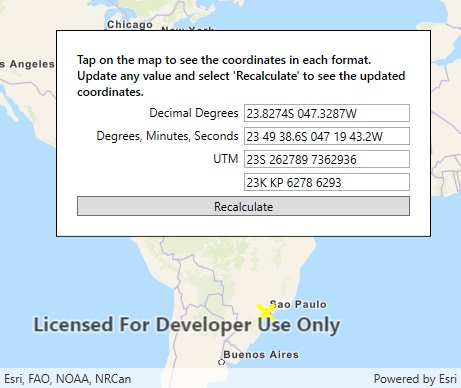
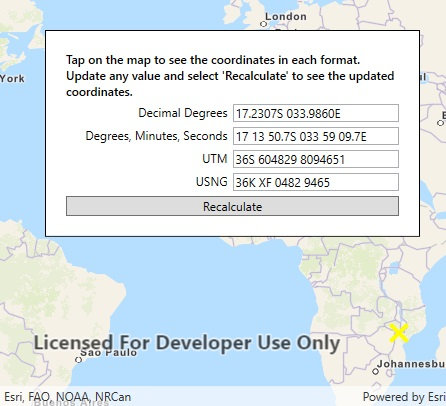
Format coordinates - re-add missing label
During the recent WPF improvement effort, the Format coordinates UI was redone. I accidentally removed some label text, which this commit/PR restores.

diff --git a/src/WPF/ArcGISRuntime.WPF.Viewer/Samples/Geometry/FormatCoordinates/FormatCoordinates.xaml b/src/WPF/ArcGISRuntime.WPF.Viewer/Samples/Geometry/FormatCoordinates/FormatCoordinates.xaml
@@ -51,7 +51,8 @@
                 <TextBox x:Name="UtmTextField"
                          Grid.Row="3" Grid.Column="1"
                          Tag="UTM" />
-                <TextBlock Grid.Row="4" Grid.Column="0"
+                <TextBlock Text="USNG"
+                           Grid.Row="4" Grid.Column="0"
                            HorizontalAlignment="Right" />
                 <TextBox x:Name="UsngTextField"
                          Grid.Row="4" Grid.Column="1"
